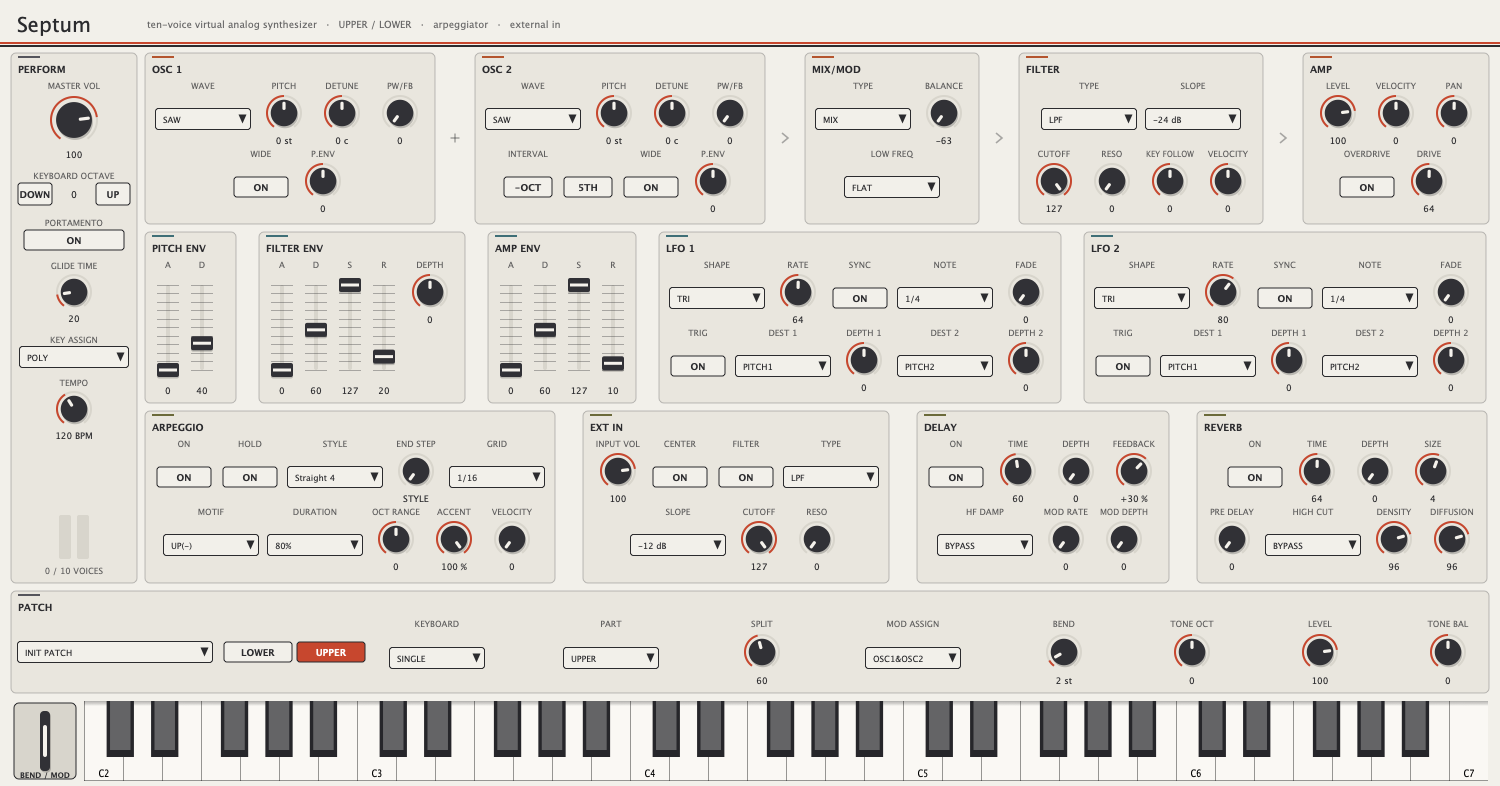
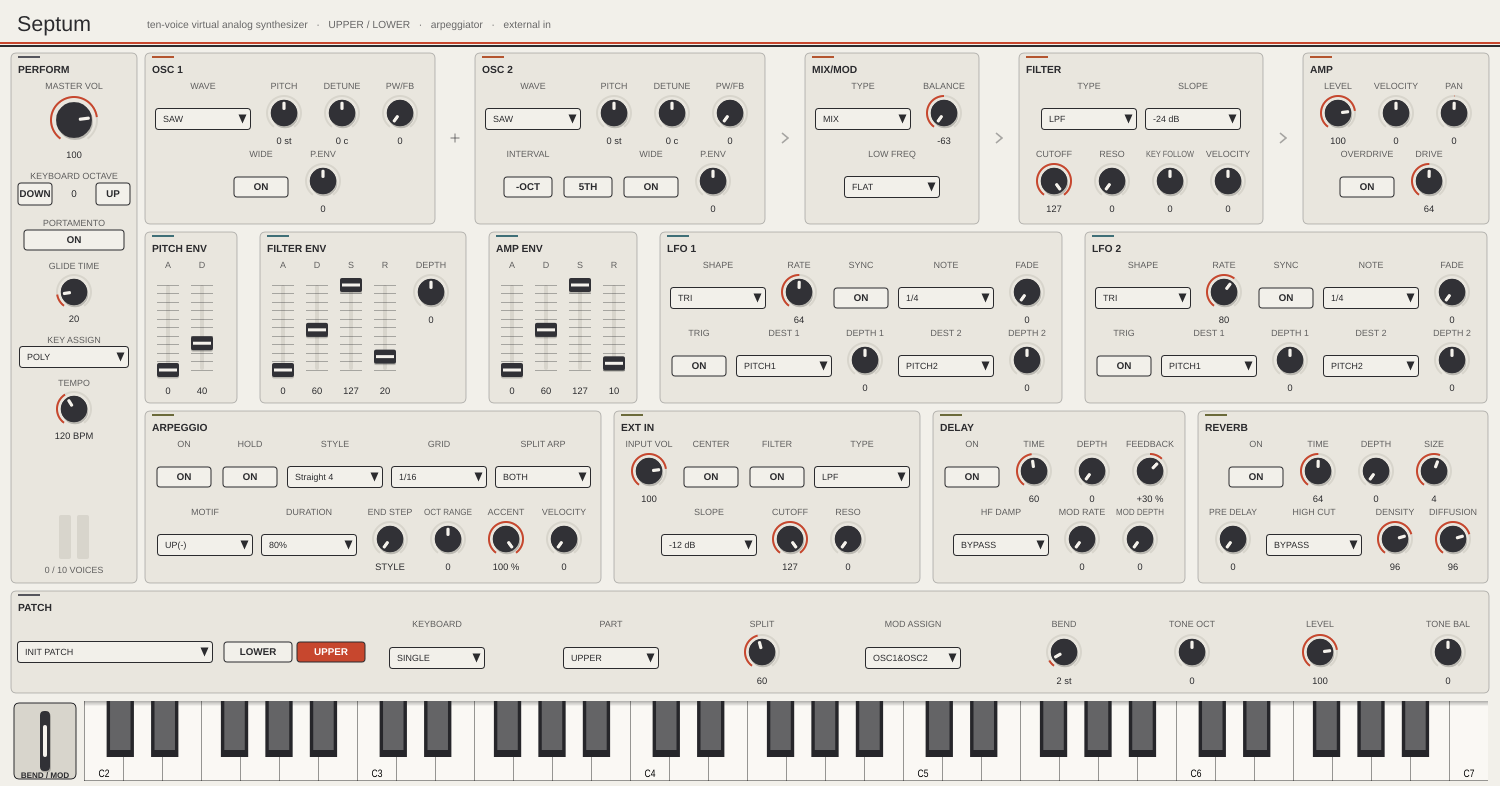
Place every control the panel builds, and light bipolar knobs from zero
Two defects an audit of the shipping panel found, both of them the panel
saying something untrue about its own controls.

SPLIT ARPEGGIO was built, attached to its parameter, made visible — and
never laid out. layoutSection walks a section's declared row counts and
stops there; ARPEGGIO declared { 5, 5 } and held eleven controls, so the
eleventh, the selector that decides which tone the arpeggiator drives in
SPLIT mode, was left at (0, 0, 0, 0). Reachable from the host, absent from
the instrument: the same class of defect as END STEP two rounds ago. The
rows are now { 5, 6 } — the switches and the three selectors above, the six
controls that decide how the style is read below.

The fix that matters more is the fence. A new plug-in check walks every
visible child of the editor and fails if any of them has empty bounds or
sits past the panel's edge; reverting the row counts fails it.

A bipolar knob lit its arc from the far left. drawRotarySlider filled the
travel from rotaryStartAngle to the pointer whatever the control was, so
every parameter whose range straddles zero — BALANCE, PAN, PITCH, DETUNE,
KEY FOLLOW, both VELOCITY sensitivities, FILTER ENV DEPTH, both P.ENV
depths, ARPEGGIO OCT RANGE, TONE BAL and delay FEEDBACK — showed a half-lit
arc at its zero, which reads as half on. They light from the top of the
travel now, where their zero is. The flag comes off the parameter's own
NormalisableRange rather than a hand-kept list, so a control is bipolar
[…]

diff --git a/septum/Source/PluginEditor.cpp b/septum/Source/PluginEditor.cpp
@@ -97,8 +97,9 @@ void SeptumLookAndFeel::drawRotarySlider (juce::Graphics& g, int x, int y,
                                               float sliderPos,
                                               float rotaryStartAngle,
                                               float rotaryEndAngle,
-                                              juce::Slider&)
+                                              juce::Slider& slider)
 {
+    const bool bipolar = static_cast<bool> (slider.getProperties()["bipolar"]);
     const auto bounds =
         juce::Rectangle<int> (x, y, width, height).toFloat().reduced (3.0f);
     const auto radius = juce::jmin (bounds.getWidth(), bounds.getHeight()) * 0.5f;
@@ -106,17 +107,26 @@ void SeptumLookAndFeel::drawRotarySlider (juce::Graphics& g, int x, int y,
     const auto angle =
         rotaryStartAngle + sliderPos * (rotaryEndAngle - rotaryStartAngle);
 
-    // Travel arc.
+    // Travel arc. A control whose range straddles zero lights from the top of
+    // its travel, where its zero is, rather than from the left end: a BALANCE
+    // or a PAN at the centre is not half on, and an arc lit from the end says
+    // it is.
     juce::Path arc;
     arc.addCentredArc (centre.x, centre.y, radius, radius, 0.0f,
                        rotaryStartAngle, rotaryEndAngle, true);
     g.setColour (colours::sliderTrack);
     g.strokePath (arc, juce::PathStrokeType (2.0f));
-    juce::Path filled;
-    filled.addCentredArc (centre.x, centre.y, radius, radius, 0.0f,
-                          rotaryStartAngle, angle, true);
-    g.setColour (colours::accent);
-    g.strokePath (filled, juce::PathStrokeType (2.0f));
+    const float origin = bipolar ? (rotaryStartAngle + rotaryEndAngle) * 0.5f
+                                 : rotaryStartAngle;
+    if (std::abs (angle - origin) > 1.0e-3f)
+    {
+        juce::Path filled;
+        filled.addCentredArc (centre.x, centre.y, radius, radius, 0.0f,
+                              juce::jmin (origin, angle),
+                              juce::jmax (origin, angle), true);
+        g.setColour (colours::accent);
+        g.strokePath (filled, juce::PathStrokeType (2.0f));
+    }
 
     // Cap.
     const auto capRadius = radius * 0.78f;
@@ -515,18 +525,21 @@ SeptumAudioProcessorEditor::SeptumAudioProcessorEditor (
 
     // ---- band 3: the two ends of the instrument --------------------------
     auto* arpSection = section ("ARPEGGIO", Band::InputEffects);
-    arpSection->rowCounts = { 5, 5 };
+    // Row one is what the arpeggiator is and where it plays; row two is how
+    // it reads the keys. The counts have to cover every control the section
+    // holds — a row short and the last one is never given bounds.
+    arpSection->rowCounts = { 5, 6 };
     addControl (*arpSection, "arp_on", "ON", Style::Toggle, false);
     addControl (*arpSection, "arp_hold", "HOLD", Style::Toggle, false);
     addControl (*arpSection, "arp_style", "STYLE", Style::Combo, false);
-    addControl (*arpSection, "arp_end_step", "END STEP", Style::Knob, false);
     addControl (*arpSection, "arp_grid", "GRID", Style::Combo, false);
+    addControl (*arpSection, "arp_split", "SPLIT ARP", Style::Combo, false);
     addControl (*arpSection, "arp_motif", "MOTIF", Style::Combo, false);
     addControl (*arpSection, "arp_duration", "DURATION", Style::Combo, false);
+    addControl (*arpSection, "arp_end_step", "END STEP", Style::Knob, false);
     addControl (*arpSection, "arp_octave", "OCT RANGE", Style::Knob, false);
     addControl (*arpSection, "arp_accent", "ACCENT", Style::Knob, false, " %");
     addControl (*arpSection, "arp_velocity", "VELOCITY", Style::Knob, false);
-    addControl (*arpSection, "arp_split", "SPLIT ARP", Style::Combo, false);
 
     auto* externalSection = section ("EXT IN", Band::InputEffects);
     externalSection->rowCounts = { 4, 3 };
@@ -836,6 +849,12 @@ void SeptumAudioProcessorEditor::bindControls()
 
         if (auto* slider = dynamic_cast<juce::Slider*> (control->component.get()))
         {
+            // Read straight off the parameter's own range, so a control the
+            // manual prints with a sign can never disagree with the way its
+            // arc is lit.
+            const auto& range = processor.parameters.getParameterRange (id);
+            slider->getProperties().set (
+                "bipolar", range.start < 0.0f && range.end > 0.0f);
             control->sliderAttachment = std::make_unique<
                 juce::AudioProcessorValueTreeState::SliderAttachment> (
                 processor.parameters, id, *slider);

diff --git a/septum/Tests/PluginProcessorTests.cpp b/septum/Tests/PluginProcessorTests.cpp
@@ -517,6 +517,30 @@ void testEditorAndSnapshot()
     expect (editor->getWidth() >= 1000 && editor->getHeight() >= 500,
             "the editor opens at its panel size");
 
+    // Every control the panel puts on screen has to be given bounds. A
+    // section whose declared row counts do not cover its contents lays out
+    // all but the last control and leaves that one at (0, 0, 0, 0): visible,
+    // attached to its parameter, and invisible to the player. SPLIT ARPEGGIO
+    // was exactly that until the ARPEGGIO section's rows were corrected.
+    int placed = 0, unplaced = 0, escaped = 0;
+    for (int i = 0; i < editor->getNumChildComponents(); ++i)
+    {
+        auto* child = editor->getChildComponent (i);
+        if (child == nullptr || ! child->isVisible())
+            continue;
+        if (child->getBounds().isEmpty())
+        {
+            ++unplaced;
+            continue;
+        }
+        ++placed;
+        if (! editor->getLocalBounds().contains (child->getBounds()))
+            ++escaped;
+    }
+    expect (placed > 100, "the panel places its controls");
+    expect (unplaced == 0, "every visible control on the panel has bounds");
+    expect (escaped == 0, "no control is laid out past the panel's edge");
+
     juce::Image rendered { juce::Image::ARGB, editor->getWidth(),
                            editor->getHeight(), true };
     {

diff --git a/septum/Docs/best-in-class-plan.md b/septum/Docs/best-in-class-plan.md
@@ -555,3 +555,38 @@ click; and moving the cutoff at the same moment as the switch left the filtered
 path still agreeing with the dry one just as the switch was thrown, so the step
 had nothing to show. Both were errors in the measurement, not the fix, and both
 were caught by insisting the test fail when the fix is reverted.
+
+#### Step 12 — the panel dropped a control, and lit half its knobs wrong
+
+Two defects an audit of the shipping panel found, both of them the panel
+saying something untrue about its own controls.
+
+**SPLIT ARPEGGIO was built, attached and never laid out.** `layoutSection`
+walks a section's declared row counts and stops; ARPEGGIO declared `{ 5, 5 }`
+and held eleven controls, so the eleventh — the selector that decides which
+tone the arpeggiator drives in SPLIT mode — was left at (0, 0, 0, 0). It was
+visible, it was bound to its parameter, and it was invisible to the player.
+This is the same class of defect as END STEP in Step 10: documented in the
+README and the contract, reachable from the host, absent from the instrument.
+The rows are now `{ 5, 6 }` — the switches and the three selectors above, the
+six controls that decide how the style is read below — and the section is
+44 px wider for it.
+
+The fix that matters more is the fence. A new plug-in check walks every
+visible child of the editor and fails if any of them has empty bounds or is
+laid out past the panel's edge. Reverting the row counts fails it:
+
+```
+FAIL: every visible control on the panel has bounds
+```
+
+**A bipolar knob lit its arc from the far left.** `drawRotarySlider` filled
+the travel arc from `rotaryStartAngle` to the pointer whatever the control
+was, so every parameter whose range straddles zero — BALANCE, PAN, PITCH,
+DETUNE, KEY FOLLOW, both VELOCITY sensitivities, FILTER ENV DEPTH, both
+P.ENV depths, ARPEGGIO OCT RANGE, TONE BAL and delay FEEDBACK — showed a
+half-lit arc at its zero, which reads as half on. They now light from the top
+of the travel, where their zero is. The flag is read straight off the
+parameter's own `NormalisableRange` in `bindControls` rather than from a list
+that could drift: a control is bipolar exactly when its range crosses zero,
+so the arc and the sign the manual prints can never disagree.
